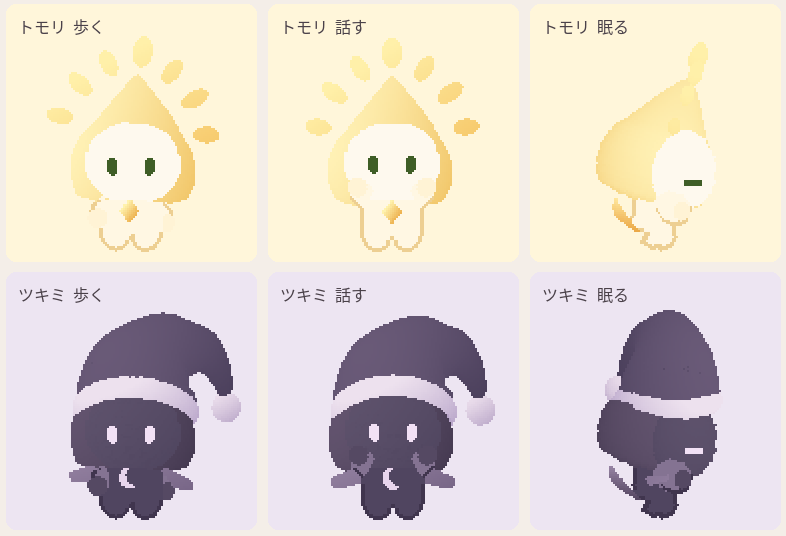
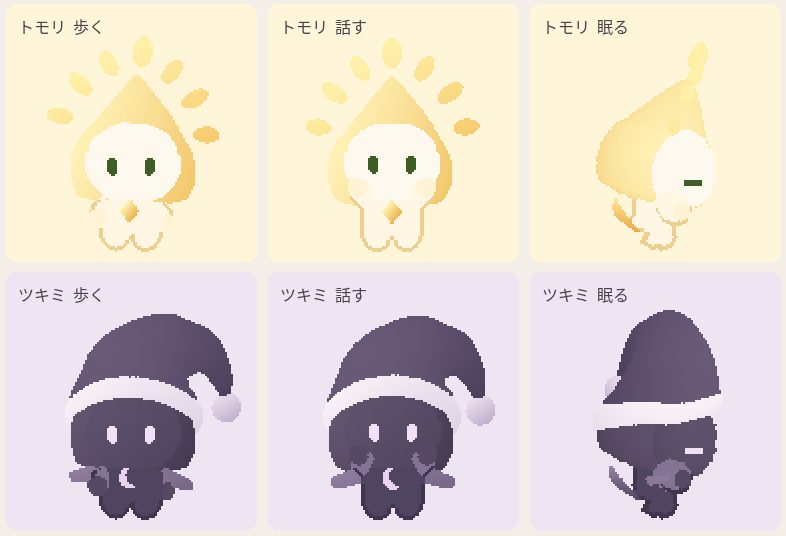
ツキミの帽子で後頭部を覆う

diff --git a/tools/art/spirit3d/light_dark.py b/tools/art/spirit3d/light_dark.py
@@ -1,8 +1,10 @@
 """トモリとツキミの頭巾・しっぽ・胸飾り。座標はチップのドット。
 
 顔・耳の位置と体、手足の形、骨は水の精霊と同じ。
-トモリは金色の頭巾、七つの光、胸のしずく。ツキミは右へ
-垂れる紫の頭巾、うす紫の折り返しと房、肩にかかる布と胸の三日月。
+トモリは金色の頭巾、七つの光、胸のしずく。ツキミは紫のナイトキャップ、
+肩にかかる布と胸の三日月。ナイトキャップの白い折り返しは、額で高さ
+約60ドット、うなじで約34ドット。幅10〜13ドットの帯で頭を囲み、
+その上辺に紫の布をつなぐ。布は右後ろに垂れ、先端で房をとめる。
 """
 from math import pi
 import numpy as np
@@ -84,7 +86,7 @@ def chest_mark(body, dark):
 
 
 def cuff_height(front):
-    return 48.5+11*np.maximum(front,0)**1.37+2*np.minimum(front,0)
+    return 46.5+13*np.maximum(front,0)**1.37-12.5*np.maximum(-front,0)**1.45
 
 
 def night_cap():
@@ -92,13 +94,18 @@ def night_cap():
     theta = np.linspace(0,2*pi,640,endpoint=False)
     dx,dy = np.cos(theta),np.sin(theta)
     low = cuff_height(dy)
-    # 折り返しは頭の外周をまわる、厚みのある帯。
+    back = np.maximum(-dy,0)
+    width = 10.2+2.8*back
+    # 後頭部のふくらみを越えて、うなじへ向かう厚みのある帯。
+    rim_x = -.7+dx*(30.7+2.2*(1-np.maximum(dy,0)))
+    rim_y = -5+dy*(24.8+6.6*back)
     t = np.linspace(0,1,27)[:,None]
     roll = np.sin(pi*t)
-    cuff = np.stack((dx*(29.7+1.55*roll),-5+dy*(24.8+1.6*roll),
-                     low+10.2*t),axis=-1).reshape(-1,3)
-    cuff_colors = tones(rgb('#b9a6ca'),rgb('#ede1ee'),
-                        np.clip(.51+.019*(cuff[:,2]-53)-.011*cuff[:,0]+.012*cuff[:,1],0,1))
+    cuff = np.stack((rim_x+1.55*dx*roll,rim_y+1.6*dy*roll,
+                     low+width*t),axis=-1).reshape(-1,3)
+    cuff_colors = tones(rgb('#d4c8df'),rgb('#faf4f8'),
+                        np.clip(.55+.016*(t*width).ravel()
+                                -.008*cuff[:,0]+.004*cuff[:,1],0,1))
 
     # 軸は上から右うしろへ曲がり、房のつく先へ下がる。
     rows = np.array([
@@ -122,7 +129,7 @@ def night_cap():
     fabric = (center[:,None,:]+dx[None,:,None]*radii[:,0,None,None]*side[:,None,:]
               +dy[None,:,None]*radii[:,1,None,None]*depth[:,None,:])
     # 根もとは折り返しと辺を共有し、上へ行く間に布の丸みへつなぐ。
-    rim = np.stack((29.7*dx,-5+24.8*dy,low+10.2),axis=1)
+    rim = np.stack((rim_x,rim_y,low+width),axis=1)
     weight = np.clip(1-u/.24,0,1)**2
     fabric += weight[:,None,None]*(rim-fabric[0])[None,:,:]
     p = fabric.reshape(-1,3)
@@ -130,9 +137,11 @@ def night_cap():
                     np.clip(.53+.005*(p[:,2]-72)-.005*p[:,0]+.007*p[:,1],0,1))
     cloth = np.concatenate((cuff,p))
     colors = np.concatenate((cuff_colors,pigment))
-    grid = np.rint(cloth/QH).astype(np.int16)
+    # 斜めから写しても布に点のすきまができないよう、細かい間隔で点をまとめる。
+    pitch = QH/2
+    grid = np.rint(cloth/pitch).astype(np.int16)
     vertices,first = np.unique(grid,axis=0,return_index=True)
-    return texture(vertices.astype(float)*QH,colors[first])
+    return texture(vertices.astype(float)*pitch,colors[first])
 
 
 def mantle():

diff --git a/handoff/from-gpt.md b/handoff/from-gpt.md
@@ -35,10 +35,10 @@
 ### H-4 光と闇のせいれい
 
 - 持ち主の見本を元に3Dで組んだ。水の精霊と同じ顔、体、手足、骨と、共通の表情チップを使った。
-- トモリは金色のとんがり頭巾、七つの光、胸のしずく。ツキミは右うしろへ垂れた紫のナイトキャップ、うす紫の折り返しと房、肩の布、胸の三日月。しっぽは後ろからも見える位置に付けた。
-- ツキミのナイトキャップは頭と別の部品にし、額に乗る折り返しから、房が付く先まで一続きの形にした。帽子と房は動作中に頭の動きに合わせて動く。11動作のツキミの絵を写し直した。
+- トモリは金色のとんがり頭巾、七つの光、胸のしずく。ツキミは右うしろへ垂れた紫のナイトキャップ、白い折り返しと淡い紫の房、肩の布、胸の三日月。しっぽは後ろからも見える位置に付けた。
+- ツキミのナイトキャップは頭と別の部品にした。白い折り返しは額からうなじへ下がり、後ろ側を前より約26ドット低くした。紫の布を折り返しの上辺につないで後頭部を覆い、垂れた先に房を付けた。帽子と房は動作中に頭の動きに合わせて動く。11動作のツキミの絵を写し直した。
 - [正面・横・後ろ](files/H-4/character-views.png) ・ [歩く動き](files/H-4/walk.gif) ・ [動きの見本](files/H-4/motion-views.png)
-- `parts/` に頭巾・飾り・顔・しっぽなどの透過 PNG、`motions/` に11動作 × 2属性の WebP を置いた。各動作のシートは正面・横・後ろの順。全552コマが書き出され、帽子とその影を含む19点の部品の大きさと透過も確認した。目の位置、手の位置、絵の基準は [sprites.json](files/H-4/sprites.json)。
+- `parts/` に頭巾・飾り・顔・しっぽなどの透過 PNG、`motions/` に11動作 × 2属性の WebP を置いた。各動作のシートは正面・横・後ろの順。全552コマが書き出され、正面と横から写した帽子を含む19点の部品の大きさと透過も確認した。目の位置、手の位置、絵の基準は [sprites.json](files/H-4/sprites.json)。
 - `python3 tools/art/spirit3d/build_handoff.py handoff/files/H-4` で同じ絵を作る。動作名を指定して別の動きも出せる。 `--all` で全動作を写す。
 - 水と風の精霊の既存の歩きは、変更前と3方向で同じ絵になることを確認した。ゲームでの表示とチップ登録は、絵の確認後に残っている。
 
